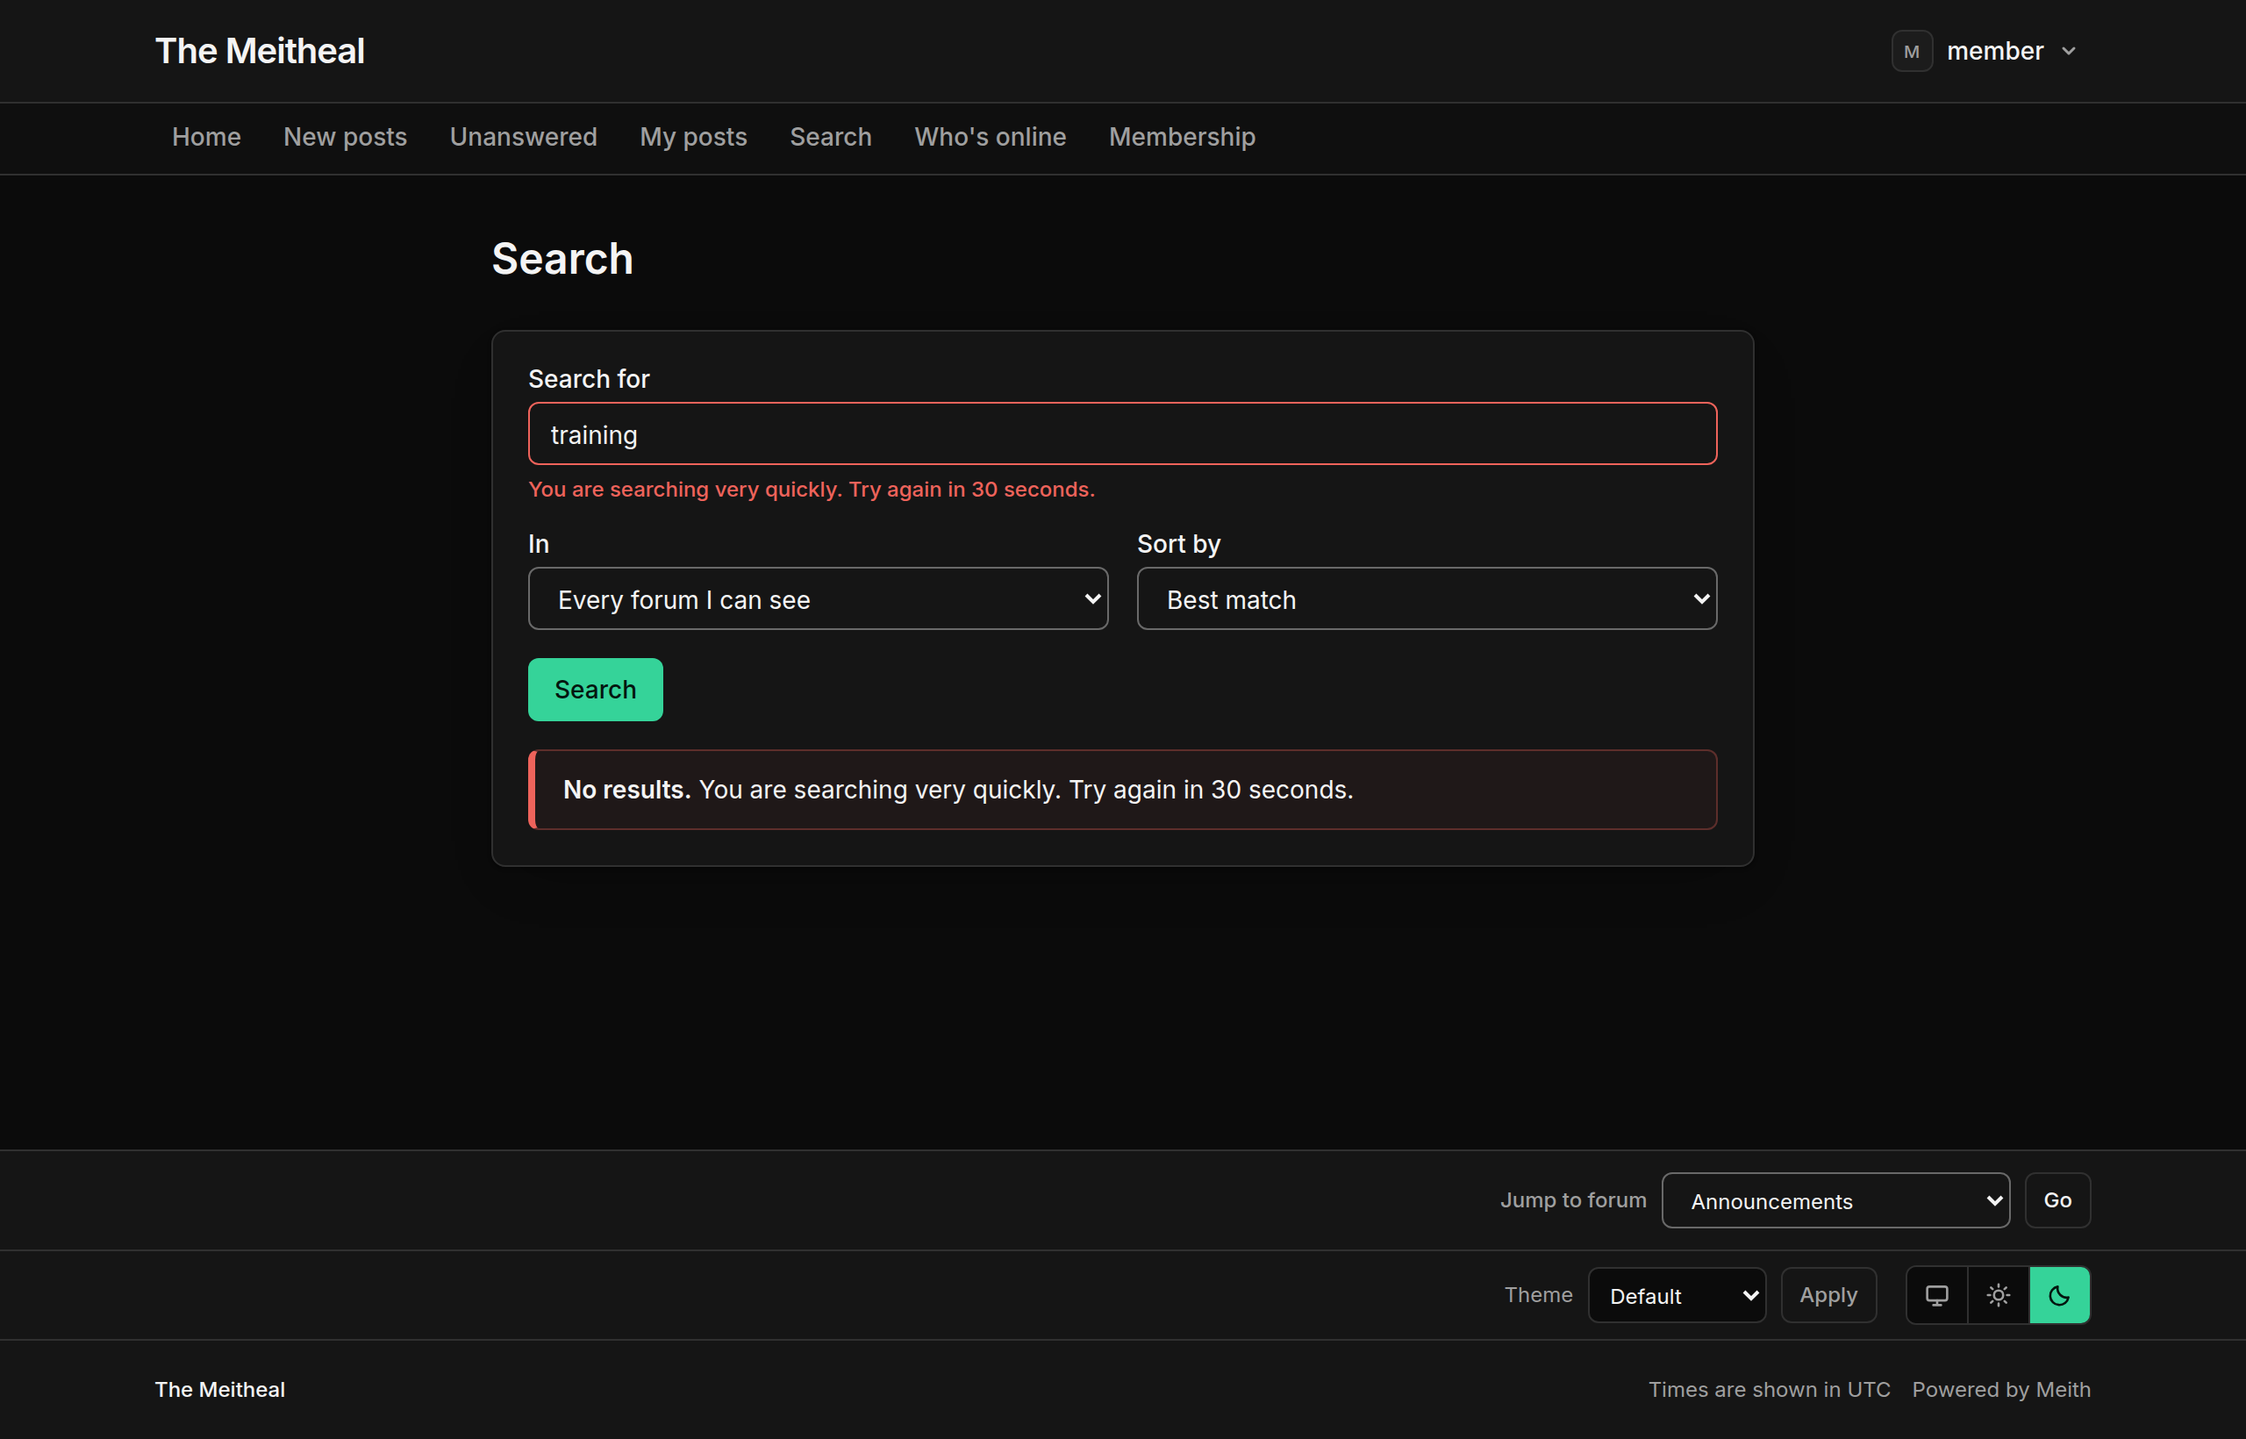
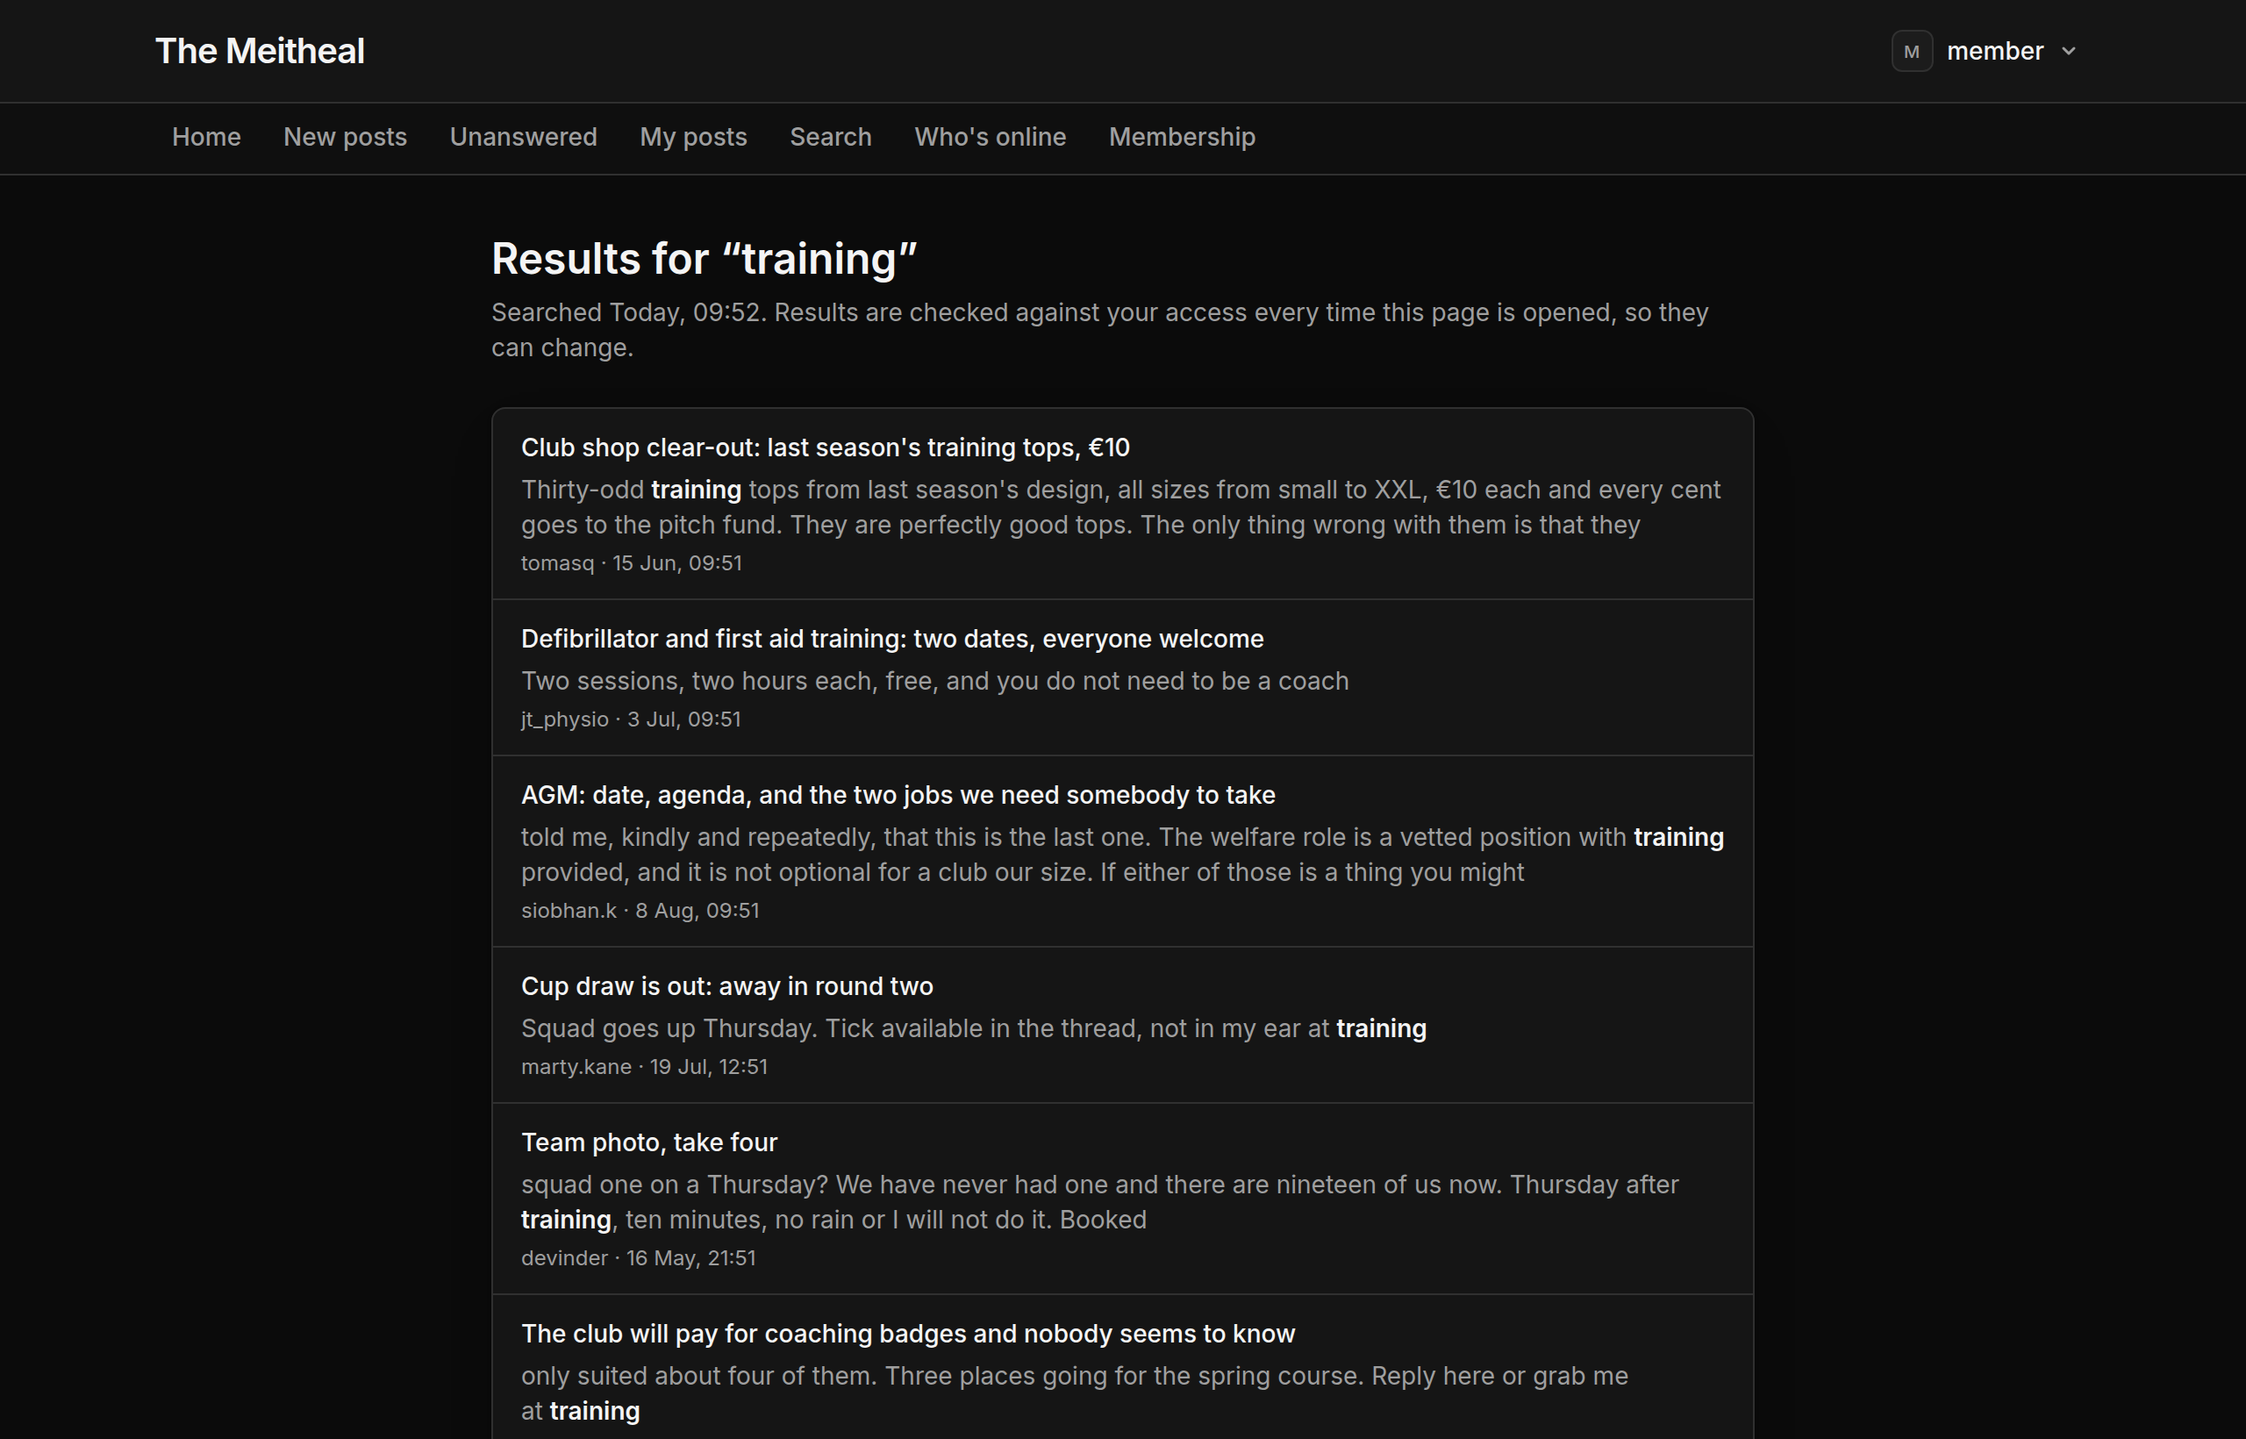
fix(site): photograph search results, and tighten the hero
Three things, all of them visible on the page.

**The search shots were of the search form, not results.** `/search?q=` runs a
flood-checked search and redirects to a stored result set; taking one shot per
colour scheme reloaded that route twice, and the second came back as the form
carrying "You are searching very quickly. Try again in 30 seconds". Unlike the
e2e fixture, the demo board leaves `search.flood_seconds` at its shipped value,
and the warm-up loop has already spent the allowance.

The guard did not catch it because it looked for the words "Nothing matched",
which the rate-limited page does not say — it says "No results". So a broken
image shipped past a passing assertion. Both are fixed: the pair is now taken
from the stored `/search/<token>` URL, so the second scheme costs no search at
all, and `expectResults` names every way this shot has gone wrong rather than
one phrase.

Cookies are also scoped to the domain and `/` rather than derived from
whichever URL happened to be open, which on a token page would have confined a
theme preference to `/search/`.

**The hero puts the board beside the copy rather than under it.** Full-bleed it
was handsome and cost most of a screen, pushing the first real claim below the
fold; beside the copy the band is 572px rather than about a thousand. The
headline drops a step of the scale with it, because at that column width
`text-hero` broke "A community / forum," — a line ending on an article.
[…]

diff --git a/e2e/screenshot-site.spec.ts b/e2e/screenshot-site.spec.ts
@@ -5,6 +5,8 @@ import { expect, test, type APIRequestContext, type BrowserContext, type Page } 
 
 import { SCHEME_COOKIE, THEME_COOKIE } from '../apps/community/src/view/theme-preference'
 
+import { DEMO_BASE_URL } from './support/config'
+
 /*
  * The photographs the marketing site is built out of.
  *
@@ -103,21 +105,37 @@ async function shoot(page: Page, name: string): Promise<void> {
   await page.screenshot({ path: path.join(shotsDirectory(), `${name}.png`) })
 }
 
+/*
+ * `at` re-opens a given URL instead of reloading the current one. It exists for
+ * the search shots, where the current URL is a stored result set and reloading
+ * is fine, but the *route that produced it* must not be asked twice.
+ */
 async function paint(
   context: BrowserContext,
   page: Page,
   options: { theme?: string; scheme?: 'light' | 'dark' },
+  at?: string,
 ): Promise<void> {
+  /*
+   * Domain and path rather than `url`, which derives the path from whatever
+   * page happens to be open — so a preference set while standing on
+   * `/search/<token>` would be scoped to `/search/` and quietly stop applying
+   * everywhere else. The board reads both of these on every route.
+   */
+  const scope = { domain: new URL(DEMO_BASE_URL).hostname, path: '/' } as const
+
   const cookies = []
   if (options.theme !== undefined) {
-    cookies.push({ name: THEME_COOKIE, value: options.theme, url: page.url() })
+    cookies.push({ name: THEME_COOKIE, value: options.theme, ...scope })
   }
   if (options.scheme !== undefined) {
-    cookies.push({ name: SCHEME_COOKIE, value: options.scheme, url: page.url() })
+    cookies.push({ name: SCHEME_COOKIE, value: options.scheme, ...scope })
   }
 
   await context.addCookies(cookies)
-  await page.reload()
+
+  if (at === undefined) await page.reload()
+  else await page.goto(at)
 }
 
 async function signIn(page: Page, username: string, password: string): Promise<void> {
@@ -143,9 +161,32 @@ async function warmTheBoard(request: APIRequestContext, page: Page): Promise<voi
   await expect(async () => {
     await request.get(`/api/system/tick?secret=${TICK_SECRET}`)
     await page.goto(`/search?q=${SEARCH_TERM}`)
-    await expect(page.getByRole('link').filter({ hasText: /\w/ }).first()).toBeVisible()
-    await expect(page.getByText('Nothing matched')).toBeHidden()
+    await expectResults(page)
   }).toPass({ timeout: 120_000, intervals: [1_000, 2_000, 5_000, 10_000] })
+}
+
+/*
+ * That the page in front of us is a results page with results on it.
+ *
+ * Every one of these has been a way this shot went wrong. It photographed an
+ * unindexed board saying nothing matched; then, once the loop above was added,
+ * it photographed the *search form* carrying "You are searching very quickly.
+ * Try again in 30 seconds" — because the warm-up loop hammers the search
+ * endpoint, and unlike the e2e fixture the demo board leaves
+ * `search.flood_seconds` at its shipped value.
+ *
+ * The old assertion looked for the words "Nothing matched", which the flooded
+ * page does not say: it says "No results". So it passed, and the broken image
+ * shipped. Hence the shape of this — it names the failures rather than one
+ * phrase, and lands on the token URL a real results page redirects to.
+ */
+async function expectResults(page: Page): Promise<void> {
+  await expect(page).toHaveURL(/\/search\/[\w-]+$/)
+  await expect(page.getByRole('heading', { name: /Results for/ })).toBeVisible()
+  await expect(page.getByText(/searching very quickly/i)).toBeHidden()
+  await expect(page.getByText(/^No results/i)).toBeHidden()
+  await expect(page.getByText(/Nothing matched/i)).toBeHidden()
+  await expect(page.locator('a[href^="/thread/"]').first()).toBeVisible()
 }
 
 test('the marketing site, photographed', async ({ browser, request }) => {
@@ -211,11 +252,28 @@ test('the marketing site, photographed', async ({ browser, request }) => {
    * colour-scheme toggle in its header — so every shot it shows needs a partner
    * for the other side of it.
    */
-  await page.goto(`/search?q=${SEARCH_TERM}`)
-  await expect(page.getByText('Nothing matched')).toBeHidden()
+  /*
+   * Searched once, photographed twice.
+   *
+   * `/search?q=` runs a flood-checked search and redirects to a stored result
+   * set at `/search/<token>`; opening that token again reads what was stored
+   * rather than searching afresh. So the pair of shots is taken from the token
+   * URL, and the second scheme costs no search at all.
+   *
+   * Reloading `/search?q=` once per scheme is what broke this: the second
+   * request came back as the search form carrying a rate-limit warning, and
+   * that is the image that shipped.
+   */
+  await expect(async () => {
+    await page.goto(`/search?q=${SEARCH_TERM}`)
+    await expectResults(page)
+  }).toPass({ timeout: 120_000, intervals: [2_000, 5_000, 10_000, 15_000] })
+
+  const results = page.url()
 
   for (const scheme of SCHEMES) {
-    await paint(desktop, page, { scheme })
+    await paint(desktop, page, { scheme }, results)
+    await expectResults(page)
     await shoot(page, `search-${scheme}`)
   }
 

diff --git a/apps/web/app/page.tsx b/apps/web/app/page.tsx
@@ -1,5 +1,6 @@
 import Link from "next/link"
 
+import { DemoLink } from "../src/components/demo-link"
 import { SchemeScreenshot } from "../src/components/screenshot"
 import { SegmentCards } from "../src/components/segment-cards"
 import { ClosingBand } from "../src/components/site-bands"
@@ -63,7 +64,16 @@ export default async function LandingPage() {
         <div aria-hidden className="hero-grid" />
         <div aria-hidden className="hero-glow" />
 
-        <div className="shell flex flex-col gap-12 pt-16 pb-20 sm:pt-24 sm:pb-24">
+        {/*
+          Text left, board right, rather than the board stacked underneath.
+          Full-bleed under the copy the shot was handsome and cost most of a
+          screen, which pushed the first actual claim — search — below the fold
+          on a laptop. Beside the copy it does the same work in half the height,
+          and the hero ends where the reader can still see there is a page under
+          it. Below `lg` the grid collapses and the stack returns, which is the
+          only arrangement that works at that width anyway.
+        */}
+        <div className="shell grid gap-x-12 gap-y-10 pt-14 pb-16 sm:pt-20 sm:pb-20 lg:grid-cols-[minmax(0,32rem)_minmax(0,1fr)] lg:items-center">
           <div className="flex max-w-[42rem] flex-col items-start gap-6">
             <p className="badge">
               <span aria-hidden className="badge-dot" />
@@ -76,8 +86,13 @@ export default async function LandingPage() {
               stop from a comma, so it broke the headline in the middle of the
               phrase the whole thing turns on. Given a box each, the two halves
               break where they should and balance within themselves.
+
+              And a step down from `text-hero`, which is sized for a headline
+              running the full width of the shell. In a column beside the board
+              it broke "A community / forum," — a line ending on an article,
+              which is the one break a headline cannot afford.
             */}
-            <h1 className="display-hero max-w-[18ch] text-hero leading-[1.02]">
+            <h1 className="display-hero max-w-[20ch] text-huge leading-[1.06]">
               <span className="block">{hero.headline.before}</span>
               <span className="block text-accent">{hero.headline.emphasis}</span>
             </h1>
@@ -85,12 +100,12 @@ export default async function LandingPage() {
             <p className="lede max-w-[36rem]">{hero.lede}</p>
 
             <div className="mt-1 flex flex-wrap items-center gap-3">
-              <a className="btn btn-primary" href={site.demo}>
+              <DemoLink className="btn btn-primary">
                 {hero.primary}
                 <span aria-hidden className="btn-arrow">
                   →
                 </span>
-              </a>
+              </DemoLink>
               <Link className="btn btn-quiet" href={startHref}>
                 {hero.secondary}
               </Link>
@@ -107,7 +122,7 @@ export default async function LandingPage() {
             reader has taken it in before they could have read a sentence
             about it. Writing one would only invite the doubt.
           */}
-          <figure aria-label={devices.label} className="flex flex-col gap-4">
+          <figure aria-label={devices.label} className="flex flex-col gap-3">
             <div className="devices">
               <SchemeScreenshot dark={board.dark} light={board.light} priority />
               <SchemeScreenshot

diff --git a/apps/web/src/components/demo-link.tsx b/apps/web/src/components/demo-link.tsx
@@ -1,0 +1,35 @@
+import type { ReactNode } from "react"
+
+import { site } from "../content/site"
+
+/*
+ * Every link to the live board, in one place.
+ *
+ * They all open in a new tab, and that is the whole reason this is a component
+ * rather than four `<a href={site.demo}>` scattered across the site. The demo
+ * is the one link on here that a reader is meant to come *back* from: they go
+ * to poke at a real board, and the argument for running one is on the page they
+ * left. Replacing that page with the board is how a visit ends early.
+ *
+ * `rel="noreferrer"` rather than relying on the implicit `noopener` that
+ * browsers now apply to `target="_blank"`, because the implicit one is recent
+ * and this costs nothing.
+ *
+ * The hidden note is for a reader who cannot see a new tab appear. A link that
+ * moves somebody somewhere they did not expect is disorienting when the
+ * movement is invisible.
+ */
+export function DemoLink({
+  children,
+  className,
+}: {
+  children: ReactNode
+  className?: string
+}) {
+  return (
+    <a className={className} href={site.demo} rel="noreferrer" target="_blank">
+      {children}
+      <span className="sr-only"> (opens in a new tab)</span>
+    </a>
+  )
+}

diff --git a/apps/web/app/for/[segment]/page.tsx b/apps/web/app/for/[segment]/page.tsx
@@ -2,6 +2,7 @@ import type { Metadata } from "next"
 import Link from "next/link"
 import { notFound } from "next/navigation"
 
+import { DemoLink } from "../../../src/components/demo-link"
 import { SchemeScreenshot } from "../../../src/components/screenshot"
 import { SegmentCards } from "../../../src/components/segment-cards"
 import { ClosingBand } from "../../../src/components/site-bands"
@@ -120,12 +121,12 @@ export default async function SegmentPage({ params }: { params: Promise<{ segmen
             <p className="lede max-w-[36rem]">{segment.hero.lede}</p>
 
             <div className="mt-1 flex flex-wrap items-center gap-3">
-              <a className="btn btn-primary" href={site.demo}>
+              <DemoLink className="btn btn-primary">
                 See a live board
                 <span aria-hidden className="btn-arrow">
                   →
                 </span>
-              </a>
+              </DemoLink>
               <Link className="btn btn-quiet" href={startHref}>
                 Set one up
               </Link>

diff --git a/apps/web/src/components/site-header.tsx b/apps/web/src/components/site-header.tsx
@@ -2,6 +2,7 @@ import Link from "next/link"
 
 import { site } from "../content/site"
 import { quickstartHref } from "../docs/registry"
+import { DemoLink } from "./demo-link"
 import { DocsSearch } from "./docs-search"
 import { Logomark } from "./logomark"
 import { ThemeToggle } from "./theme-toggle"
@@ -27,12 +28,9 @@ export function SiteHeader() {
           reachable from two buttons on one page.
         */}
         <nav aria-label="Site" className="flex items-center gap-3 sm:gap-4">
-          <a
-            href={site.demo}
-            className="text-micro font-medium text-fg-muted transition-colors hover:text-fg"
-          >
+          <DemoLink className="text-micro font-medium text-fg-muted transition-colors hover:text-fg">
             Demo
-          </a>
+          </DemoLink>
           <Link
             href="/for"
             className="hidden text-micro font-medium text-fg-muted transition-colors hover:text-fg sm:inline"

diff --git a/apps/web/src/components/site-bands.tsx b/apps/web/src/components/site-bands.tsx
@@ -2,6 +2,8 @@ import Link from "next/link"
 
 import { closing, site } from "../content/site"
 
+import { DemoLink } from "./demo-link"
+
 /*
  * The one band that is the same wherever you landed.
  *
@@ -44,9 +46,7 @@ export function ClosingBand({
                 →
               </span>
             </Link>
-            <a className="btn btn-quiet" href={site.demo}>
-              See a live board
-            </a>
+            <DemoLink className="btn btn-quiet">See a live board</DemoLink>
             <a className="btn btn-quiet" href={site.repository}>
               Source
             </a>

diff --git a/apps/web/src/styles/globals.css b/apps/web/src/styles/globals.css
@@ -1228,16 +1228,21 @@ body {
 }
 
 @media (min-width: 48rem) {
+  /*
+   * Proportional rather than fixed, because this sits in the hero's image
+   * column now rather than across the whole shell. A phone pinned at 13rem was
+   * a third of the picture at full width and most of it at half.
+   */
   .devices {
     display: block;
-    padding-inline-end: 7rem;
+    padding-inline-end: 20%;
   }
 
   .devices .devices-phone {
     position: absolute;
     right: 0;
-    bottom: -1.5rem;
-    width: 13rem;
+    bottom: -1rem;
+    width: 27%;
     box-shadow: var(--lift-lg);
   }
 }
